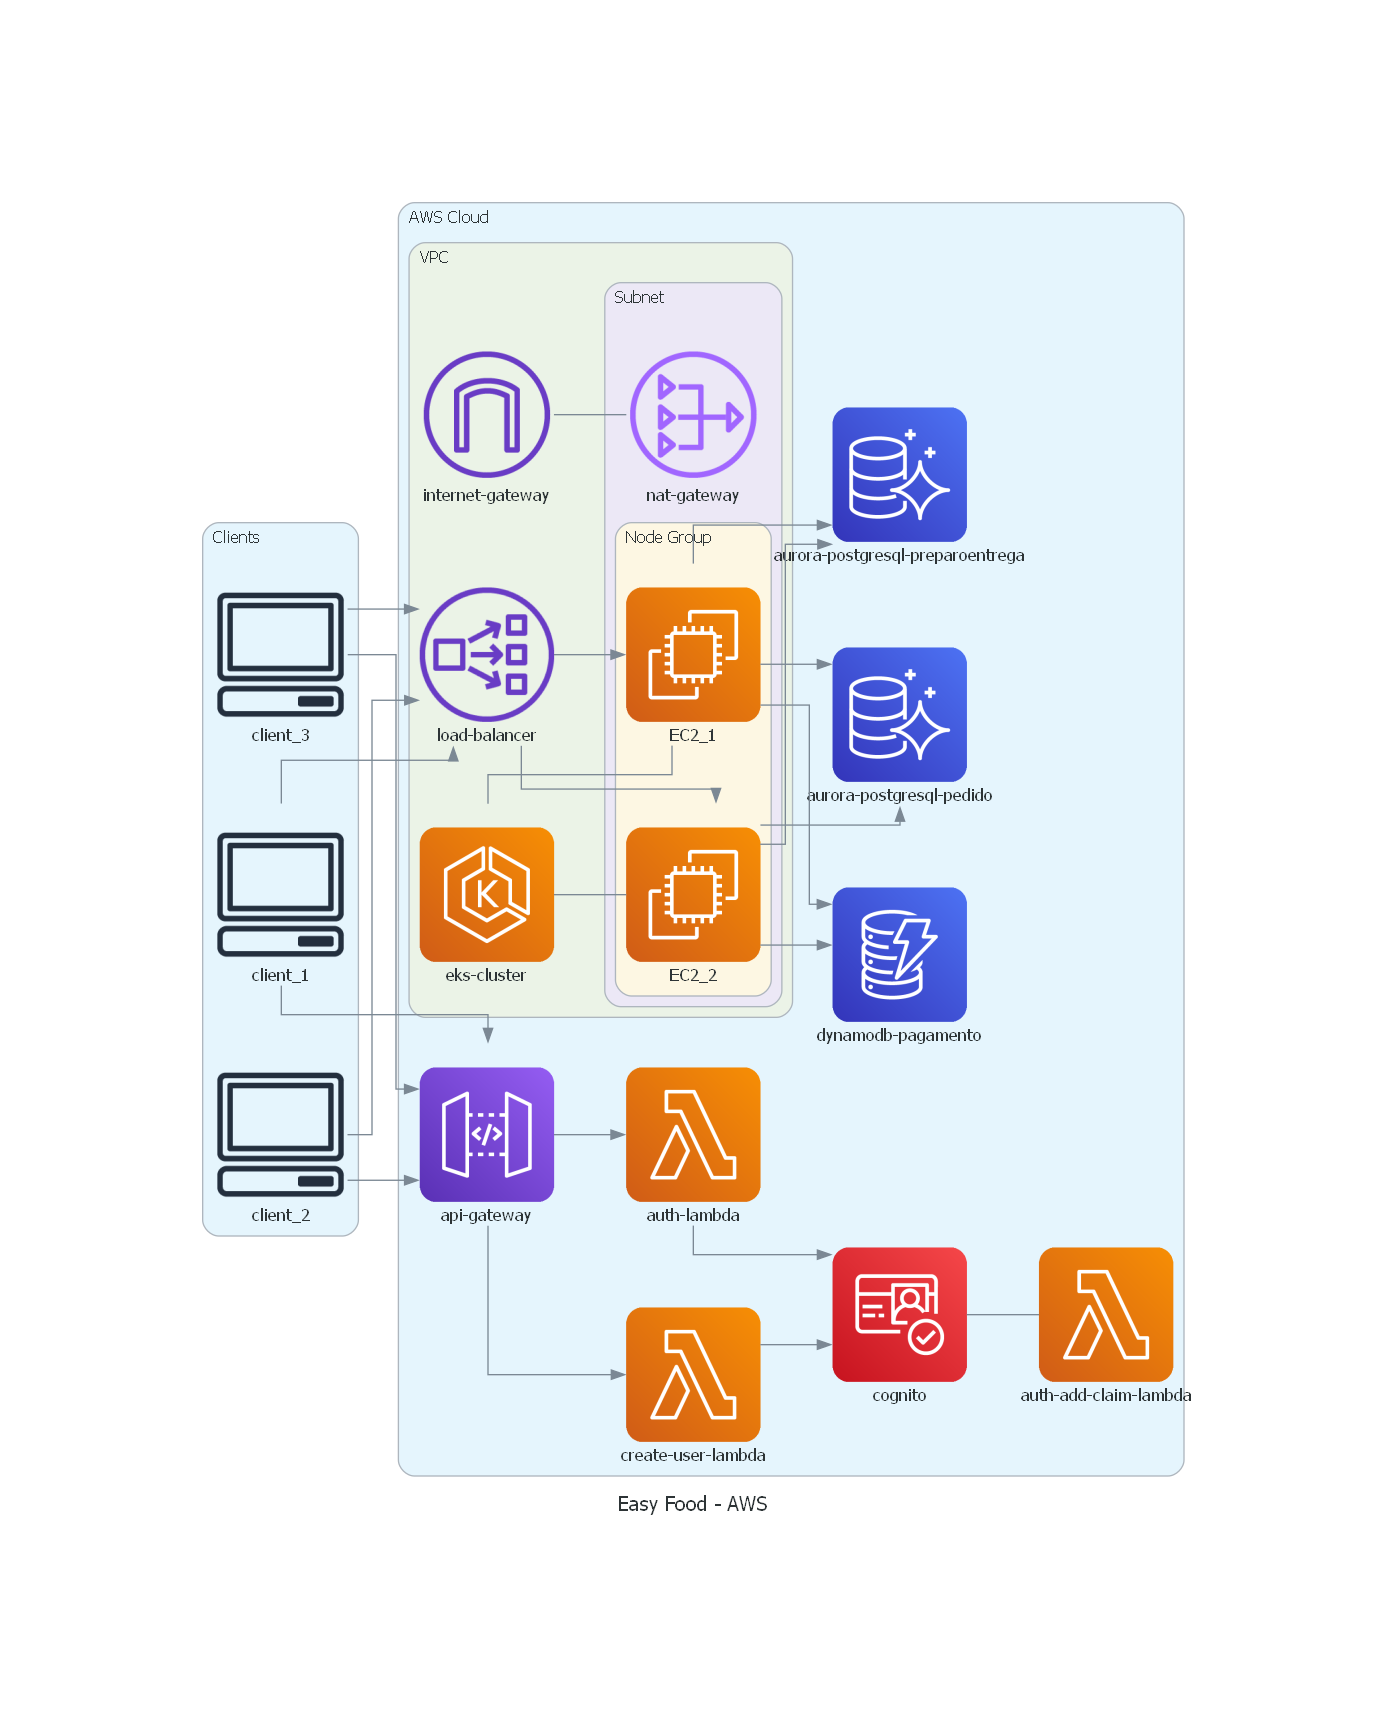
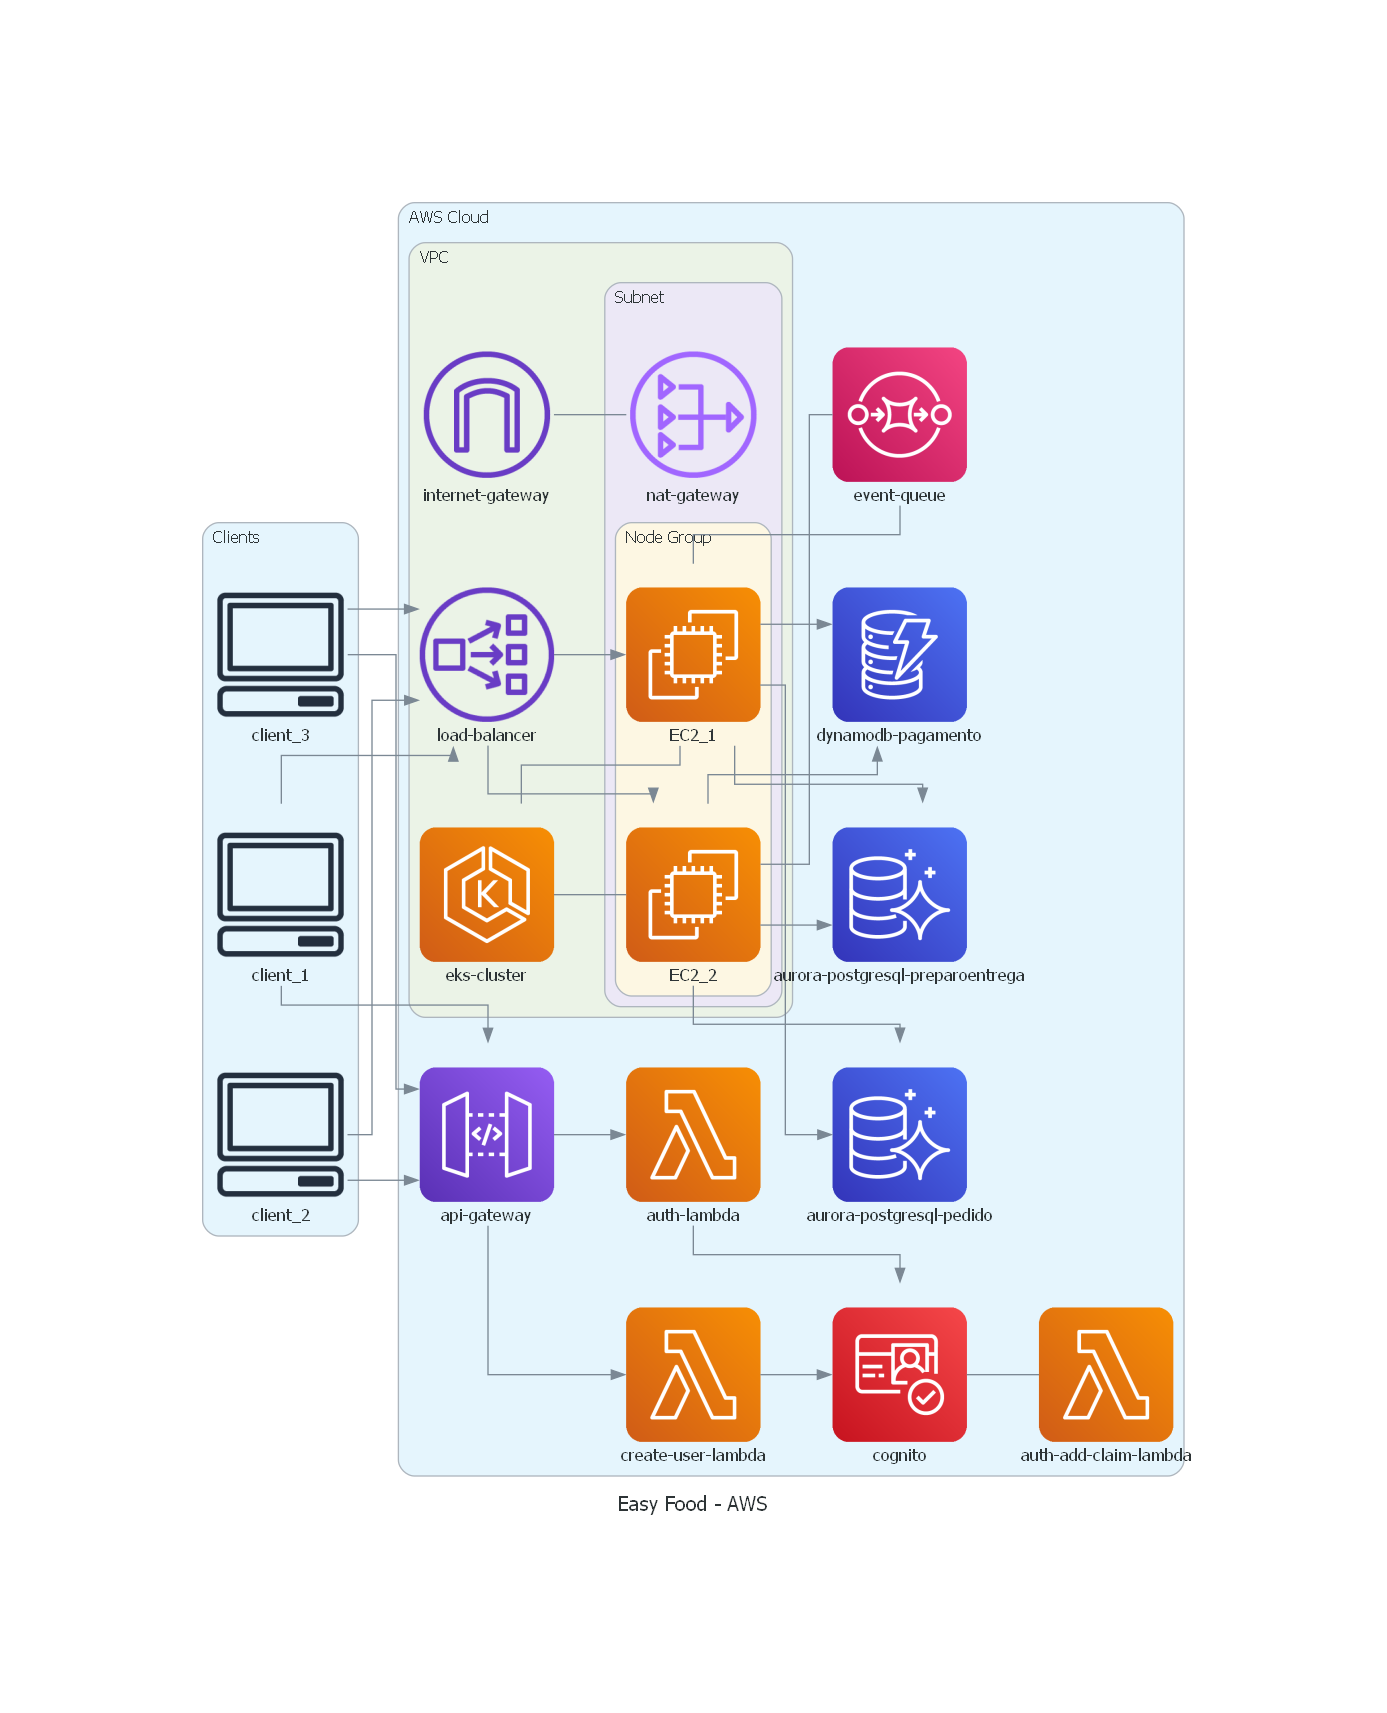
chore: ajuste documentação

diff --git a/docs/wiki/docusaurus.config.js b/docs/wiki/docusaurus.config.js
@@ -121,6 +121,11 @@ const config = {
                 label: 'Diagrama C4',
                 to: '/docs/arquitetura/diagramas/solucao/diagrama-c4',
               }
+              ,
+              {
+                label: 'Diagrama Microsserviços',
+                to: '/docs/arquitetura/diagramas/microsservicos/diagrama-microsservicos',
+              }
             ],
           },
           {

diff --git a/docs/wiki/docs/arquitetura/diagramas/infraestrutura/diagrama-aws.md b/docs/wiki/docs/arquitetura/diagramas/infraestrutura/diagrama-aws.md
@@ -4,6 +4,6 @@ sidebar_position: 2
 
 # Diagrama AWS
 
-Diagrama da arquitetura da AWS, utilizando o EKS.
+Diagrama da arquitetura da AWS, utilizando o EKS, SQS, RDS Aurora PostgreSQL, DynamoBD, Lambda, Cognito e API Gateway.
 
 ![](./../../../../static/img/arquitetura/diagramas/infraestrutura/diagrama_aws.png)

diff --git a/docs/wiki/docs/arquitetura/diagramas/microsservicos/diagrama-microsservicos.md b/docs/wiki/docs/arquitetura/diagramas/microsservicos/diagrama-microsservicos.md
@@ -1,0 +1,9 @@
+---
+sidebar_position: 1
+---
+
+# Diagrama Microsserviços
+
+Diagrama dos microsserviços
+
+![](./../../../../static/img/arquitetura/diagramas/microsservicos/diagrama_microsservicos.png)
